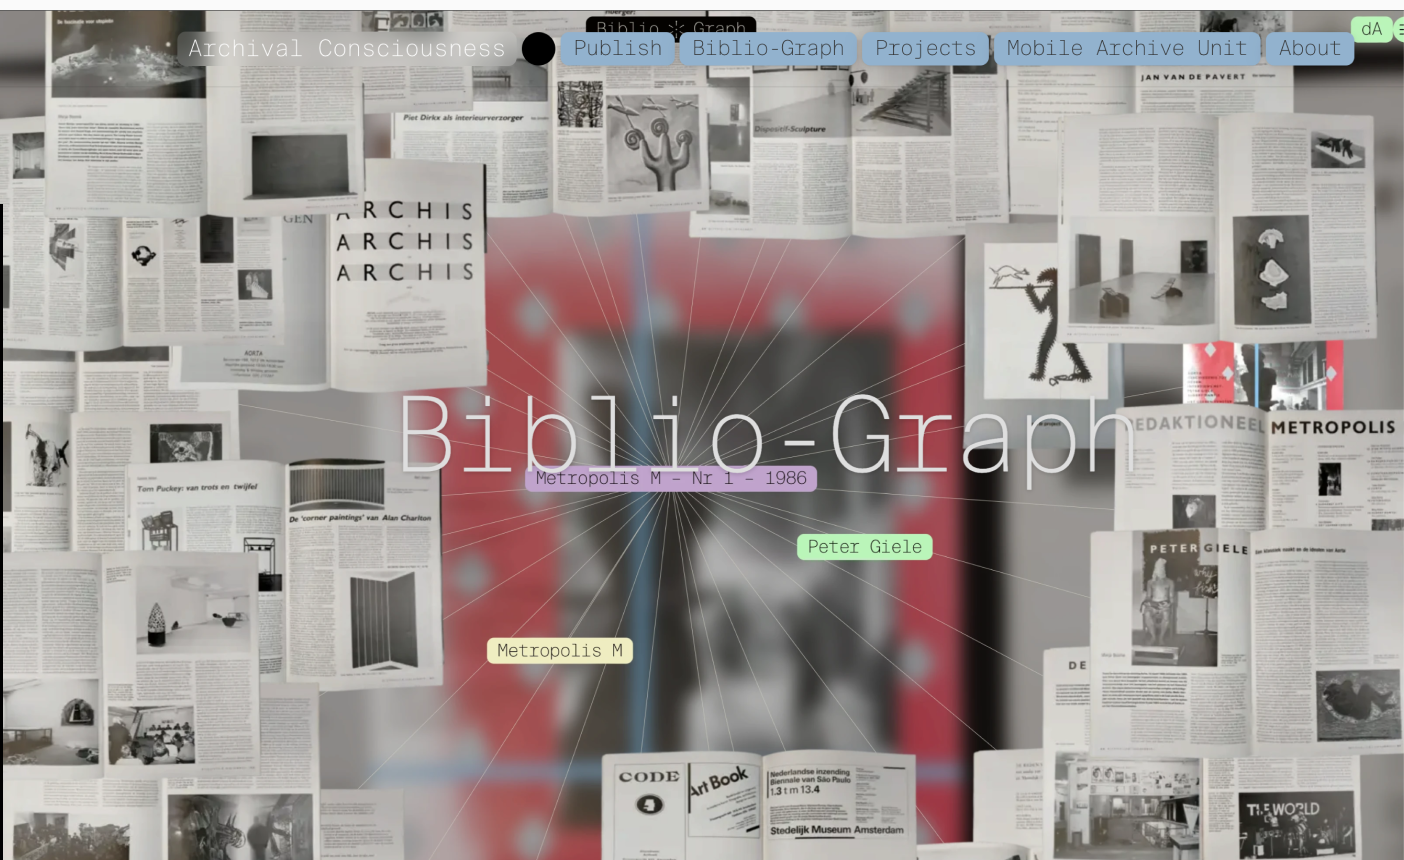
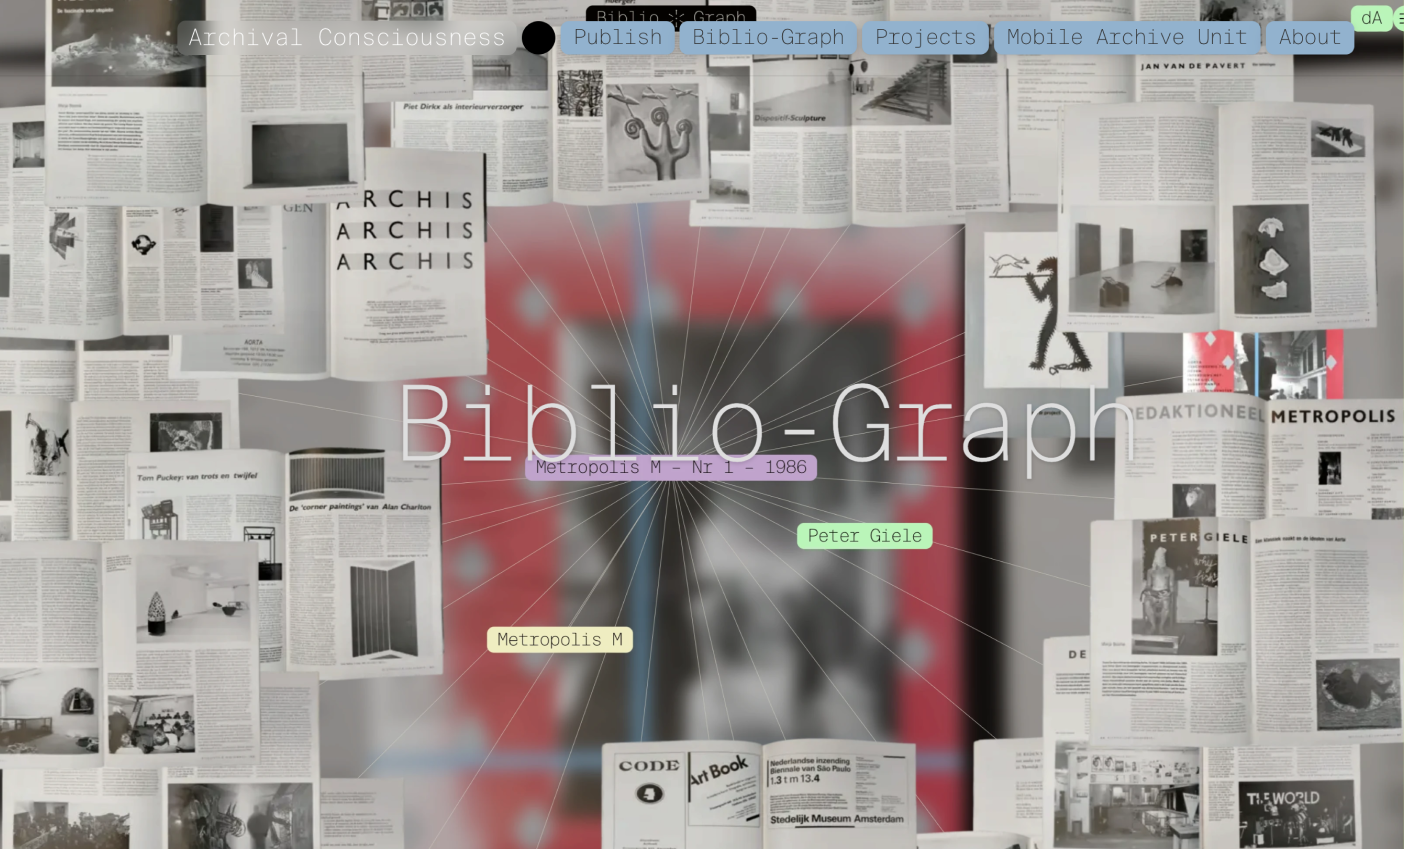
prueba intersection

diff --git a/css/homepage.css b/css/homepage.css
@@ -152,12 +152,12 @@ text-align: left;
 
 }
 #thedate{
-    position: absolute;
+    position: relative;
     left: 552.57px;
     top: 229.45px;width: 147.966px;
     height: 52.861px;
 background: #7B4B29;
-border-radius: 19px;
+border-radius: 14px;
 
 }
 #hiddenDate{
@@ -168,7 +168,10 @@ border-radius: 19px;
     font-style: normal;
 font-weight: 400;
 text-align: center;
-margin-top: 15px;
+position: absolute;
+top: 15.5px;
+left: 9.98px;
+height: 15px;
 }
 
 #thedate:hover #hiddenDate{
@@ -185,20 +188,27 @@ margin-top: 15px;
     display: none;
 }
 #thedate .sub-card-subtitle{
+    top: 9px;
+    left: 28.93px;
     display: block;
     color: rgba(255, 255, 255, 0.50);
     font-family: 'ABCDiatype-Regular', sans-serif;
     font-size: 11px;
     font-style: normal;
     font-weight: 400;
-    margin-left: 33.31px;
-    margin-top: 6.74px;
+    position: absolute;width: 170.916px;
+    height: 10.805px;line-height: 14.734px; /* 136.364% */
+
 }
 #thedate #date{
+    position: absolute;
+    top: 27px;
+    left: 28.93px;
+    width: 122.784px;
+height: 10.805px;
+line-height: 18.663px; /* 118.75% */
     display: block;
 color: white;   
-margin-left: 33.31px ;
-margin-top: 1px;
 font-family: 'ABCDiatype-Regular', sans-serif;
 font-size: 16px;
     font-style: normal;
@@ -235,8 +245,8 @@ text-align: left;
 .sub-card-subtitle::before{
     content: ""; 
     position: absolute;
-    top: 26px; 
-    left: 16px;
+    top: 11px;
+    left: -17px;
     width: 8px; 
     height: 8px; 
     border-radius: 50%; 
@@ -407,8 +417,8 @@ display: block;
 }
 #podcast{
     position: absolute;
-    width: 483px;
-height: 239.05px;
+    width: 474.438px;
+    height: 234.811px;
 top: 35.05px;
 right: 41px;
 border-radius: 19px;
@@ -421,13 +431,13 @@ background-position: center;
 
 #podcast #musicPlayer{
     background: url('/images/home4.svg');
-width: 442px;
-height: 91.79px;
 margin: auto;
-margin-top: 60px;
+
+width: 385.157px;
+height: 34.794px;
 background-position: center;
     background-size: cover; 
-    background-repeat: no-repeat; 
+    background-repeat: no-repeat; margin-top: 121px;
 }
 #podcast .sub-card-subtitle{
     display: block;
@@ -766,7 +776,7 @@ position: absolute;
 top: 93px;
 right: 9.8px;
 transform: translateX(100vw);
-transition: transform 3s cubic-bezier(0.65, 0.05, 0.36, 1);
+transition: transform 1s cubic-bezier(0.65, 0.05, 0.36, 1);
 }
 .book-active{
     transform: translateX(0); 
@@ -1234,7 +1244,7 @@ color: #007AFF;
 
 #section4{
     position: relative;
-    height: 820px;  
+    height: 1574px;  
 }
 #mask1{
     position: absolute;
@@ -1657,15 +1667,16 @@ height: 77px;
 }
 */
 #myCanvas {
-    
+    position: absolute;
+    top: 430px;
     margin: auto;
-    margin-top: 1000px;
     display: block;
-    max-width: 1400px;
+    max-width: 1448px;
     width: 100%;
-    height: 700px;
+    height: 750px;
+    left: 50%;
+    transform: translateX(-50%);
     /* Altura fija para el canvas */
-    background: white;
     /* Para mejor visualización del SVG */
     margin-bottom: 1000px;
 }

diff --git a/js/router.js b/js/router.js
@@ -8,8 +8,8 @@ const routes = [
         scripts: [
             '/js/setsvgs.js',
             '/js/lineFix.js',
-            '/js/homeInteractions.js'
-            // '/js/svgIntersection.js'
+            '/js/homeInteractions.js',
+            '/js/svgIntersection2.js'
         ],
         styles: ['/css/homepage.css']
     },
@@ -219,7 +219,7 @@ const locationHandler = async () => {
     }
     await loadScripts(route.scripts);
 
-    /*
+
     if (pathSegments === "/" || pathSegments === "#/") {
         // Eliminar el script de Paper.js del head
         const script = document.getElementById('paperScript');
@@ -229,12 +229,13 @@ const locationHandler = async () => {
         // Cargar el nuevo script de Paper.js
         try {
             await loadScript('https://cdnjs.cloudflare.com/ajax/libs/paper.js/0.12.15/paper-full.min.js');
-            await loadScript('/js/svgIntersection.js');
+            await loadScript('/js/svgIntersection2.js');
         } catch (error) {
             console.error('Error al cargar el script de Paper.js:', error);
         }
     }
-*/
+
+
     if (pathSegments === "/prueba" || pathSegments === "#/prueba") {
         // Eliminar el script de Paper.js del head
         const script = document.getElementById('paperScript');

diff --git a/js/svgIntersection2.js b/js/svgIntersection2.js
@@ -4,7 +4,7 @@ if (document.readyState === 'complete') {
     document.addEventListener('DOMContentLoaded', main);
 }
 
-var movementRange = 150;
+var movementRange = 75;
 
 function main() {
     const canvas = document.getElementById('myCanvas');
@@ -28,7 +28,6 @@ function main() {
 
                 // Inicialmente centrar el grupo "yes"
                 centerGroup(yesGroup);
-                centerGroup(noGroup);
 
                 // Ajustar al cargar
                 adjustCanvasAndSVG();
@@ -119,8 +118,8 @@ function main() {
     function adjustCanvasAndSVG() {
         if (!window.svg) return;
 
-        const maxWidth = 1200; // Ancho máximo del canvas que podemos tener
-        const maxHeight = 700; // Altura máxima del canvas
+        const maxWidth = 1448; // Ancho máximo del canvas que podemos tener
+        const maxHeight = 750; // Altura máxima del canvas
         const padding = 20; // Espacio de padding lateral
 
         const availableWidth = Math.min(window.innerWidth - 2 * padding, maxWidth);

diff --git a/index.html b/index.html
@@ -7,7 +7,7 @@
     <meta name="description" content="Initial Content">
     <title>Archiving_Garden</title>
     <link rel="stylesheet" href="/css/commonstyles.css" id="common-styles">
-    <link rel="icon" type="image/x-icon" href="/images/FAVICON.svg">
+    <link rel="icon" sizes="241x241" href="/images/favicon.svg">
     <script id="paperScript" type="text/javascript"
         src="https://cdnjs.cloudflare.com/ajax/libs/paper.js/0.12.15/paper-full.min.js"></script>
     <script src="https://unpkg.com/swiper/swiper-bundle.min.js"></script>

diff --git a/js/homeInteractions.js b/js/homeInteractions.js
@@ -83,7 +83,7 @@ function scrollAnimations() {
             var position1 = element1.getBoundingClientRect();
 
             // Activar la animación cuando la parte inferior del elemento esté por entrar en la pantalla
-            if (position1.top < window.innerHeight - 100 && position1.bottom >= 0) {
+            if (position1.top < window.innerHeight && position1.bottom >= 0) {
                 element1.classList.add('book-active');
             } else {
                 element1.classList.remove('book-active');

diff --git a/css/examples2.css b/css/examples2.css
@@ -84,8 +84,11 @@ text-decoration: underline;
 margin-bottom: 85px;
 display: inline-block;
 margin-right: 119.69px;
-color: var(--BLUE, #007AFF);
+color: #007AFF;
 
+}
+.left-container a:hover{
+color: black;
 
 }
 .example{
@@ -134,6 +137,9 @@ font-family: 'ABCDiatype-Regular', sans-serif;
 
     text-decoration: underline;
 
+}
+#special:hover{
+    color: black;
 }
 .draggable-container {
     overflow: auto;

diff --git a/html/home_page.html b/html/home_page.html
@@ -336,7 +336,9 @@
         <span class="part9">KNOWLEDGE.</span>
     </div>
 
+    <canvas id="myCanvas"></canvas>
 </div>
+
 
 <div id="section5"> <img class="chair" src="/images/chair.svg" alt="">
 

diff --git a/css/commonstyles.css b/css/commonstyles.css
@@ -153,7 +153,9 @@ font-style: normal;
 font-weight: 400;
 text-decoration-line: underline;
 font-family: 'ABCDiatype-Regular', sans-serif;
-
+}
+#contribute:hover{
+  color: #007AFF;
 }
 /*
 .header{
